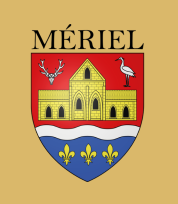
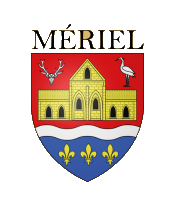
Fix Actus

diff --git a/assets/css/style.css b/assets/css/style.css
@@ -1627,44 +1627,44 @@ a:hover .arrow,
 .actus { padding-block: clamp(40px, 6vw, 72px); background: var(--cream-soft); }
 
 /* ---------- Les trois communes ----------
-   Blasons poses sous le titre de page. Ils ont des formats differents
-   (253×227, 217×220, 178×204) : `contain` les fait tenir dans un cadre commun
-   sans les deformer ni les rogner, contrairement a `cover` qui couperait le
-   blason de Meriel, le plus haut des trois. `object-position: center` les
-   recentre. Le fond beige des trois fichiers est d'origine ; la carte blanche
-   les encadre et les detache de la bande creme. */
+   Blasons poses sous le titre de page. Le fond beige d'origine a ete remplace
+   par du blanc dans les trois fichiers : ils se posent donc directement sur la
+   bande creme, sans cadre ni carte. C'est ce qui autorise `object-fit: contain`
+   sans rogner : `cover` couperait le blason de Meriel, le plus haut des trois
+   (178x204 contre 253x227). Les trois formats etant differents, `contain` les
+   fait tenir dans un cadre commun sans les deformer.
+
+   Le rang est centre sur la largeur de .page-head__inner (880 px) et non sur
+   le `wrap` de 1180 px, pour partager l'axe du titre et du chapo. */
 .communes {
-  display: grid;
-  grid-template-columns: repeat(3, 1fr);
-  gap: 14px;
-  max-width: 560px;
+  display: flex;
+  justify-content: center;
+  align-items: flex-end;
+  gap: clamp(24px, 5vw, 56px);
   margin-top: clamp(28px, 4vw, 40px);
 }
 
+/* `align-items: flex-end` aligne les pieds des trois blasons : leurs hauteurs
+   reelles diffferent (204, 220 et 227 px), les aligner par le haut laisserait
+   des blancs irreguliers sous l'ecusson le moins haut. */
 .commune {
-  display: grid;
-  place-items: center;
-  padding: 14px;
-  background: var(--white);
-  border: 1px solid var(--border);
-  border-radius: var(--radius);
-  box-shadow: var(--shadow-sm);
+  display: flex;
+  align-items: flex-end;
 }
 
-/* Nom de classe sans accent, sur le modele de .membre__photo--<nom> : la page,
-   elle, garde l'orthographe exacte dans ses textes. */
 .commune__embleme {
   display: block;
-  width: 100%;
-  height: 84px;
+  height: clamp(64px, 8vw, 88px);
+  width: auto;
+  max-width: 100%;
   object-fit: contain;
-  object-position: center;
 }
 
 .communes__note {
-  margin-top: 12px;
+  margin-top: 14px;
   font-size: .8125rem;
   color: var(--text-muted);
+  text-align: center;
 }
 
 /* ---------- À la une ----------
@@ -1869,7 +1869,6 @@ a:hover .arrow,
   .tournoi          { grid-template-columns: 1fr; }
   .bureau__grid     { grid-template-columns: repeat(2, 1fr); }
   .actus__grid      { grid-template-columns: repeat(2, 1fr); }
-  .communes          { max-width: 420px; }
   .pricing__grid { grid-template-columns: 1fr; }
   .docs__grid    { grid-template-columns: 1fr; }
 
@@ -1905,6 +1904,11 @@ a:hover .arrow,
   /* L'à la une s'empile : le texte passe sous la photo, comme .venue-block */
   .actu-une            { grid-template-columns: 1fr; }
   .actu-une__media     { aspect-ratio: 16 / 9; }
+
+  /* Trois blasons côte à côte encombrent un écran étroit : la gouttière se
+     resserre et ils descendent en hauteur, plutôt que de déborder. */
+  .communes          { gap: 16px; }
+  .commune__embleme  { height: 58px; }
   .filtre           { padding: 9px 15px; font-size: .75rem; }
   .bureau__sommaire-link { padding: 8px 14px; font-size: .75rem; }
   .teams-list__cta .btn { width: 100%; }

diff --git a/README.md b/README.md
@@ -366,11 +366,28 @@ transmet : `actu-inscriptions.jpg`, `actu-aides.jpg`, `actu-amazones.jpg`,
 
 **Blasons des trois communes.** Le bandeau de titre (`.page-head`) porte les
 emblèmes d'Auvers-sur-Oise, Méry-sur-Oise et Mériel, dans l'ordre du pied de
-page. Les trois fichiers ont des formats différents (217×220, 253×227,
-178×204) : `object-fit: contain` les fait tenir dans un cadre commun sans les
-déformer ni les rogner. La classe est `.commune__embleme`, **sans accent**,
-comme `.membre__photo--<nom>` : le nom de fichier `Emblememery.png` conserve
-en revanche sa majuscule, il est fourni tel quel.
+page. **Le fond beige d'origine (`#DAB86A`) a été remplacé par du blanc dans
+les trois fichiers**, ce qui permet de les poser sans cadre ni carte. Les
+originaux sont archivés dans `.tmp/emblemes-origine/` si le club veut les
+reprendre.
+
+Le nettoyage n'est pas un remplacement global de couleur : dans l'emblème de
+Méry, le `#D9B769` du « M » n'est qu'à **4 unités** du fond, une substitution
+par tolérance l'aurait rongé. Seuls les pixels **connectés au bord** ont donc été
+blanchis, puis un liseré d'antircrénelage a été nettoyé en ne touchant que les
+pixels beiges **adjacents à une zone déjà blanche** — l'intérieur des écussons
+et des lettres, entouré de dessin, n'est jamais adjacent au blanc et reste donc
+intact. Les trois blasons ont été vérifiés pixel par pixel après traitement :
+0 tache résiduelle sur Méry et Mériel, 3 pixels légitimes dans le lettrage doré
+d'Auvers.
+
+Ils sont posés en `flex` et centrés (`justify-content: center`) sur la largeur de
+`.page-head__inner` (880 px), donc sur le même axe que le titre et le chapô.
+`align-items: flex-end` aligne leurs pieds : les trois hauteurs diffèrent
+(204, 220 et 227 px) et un alignement par le haut laisserait des blancs
+irréguliers. La classe est `.commune__embleme`, **sans accent**, comme
+`.membre__photo--<nom>` ; le nom de fichier `Emblememery.png` conserve en
+revanche sa majuscule, il est fourni tel quel.
 
 **Contenu.** Tout est repris de ce qui est déjà attesté ailleurs sur le site ou
 dans le PDF du club (page « club », section « VIE ASSOCIATIVE ») : Méry'Plouz,
